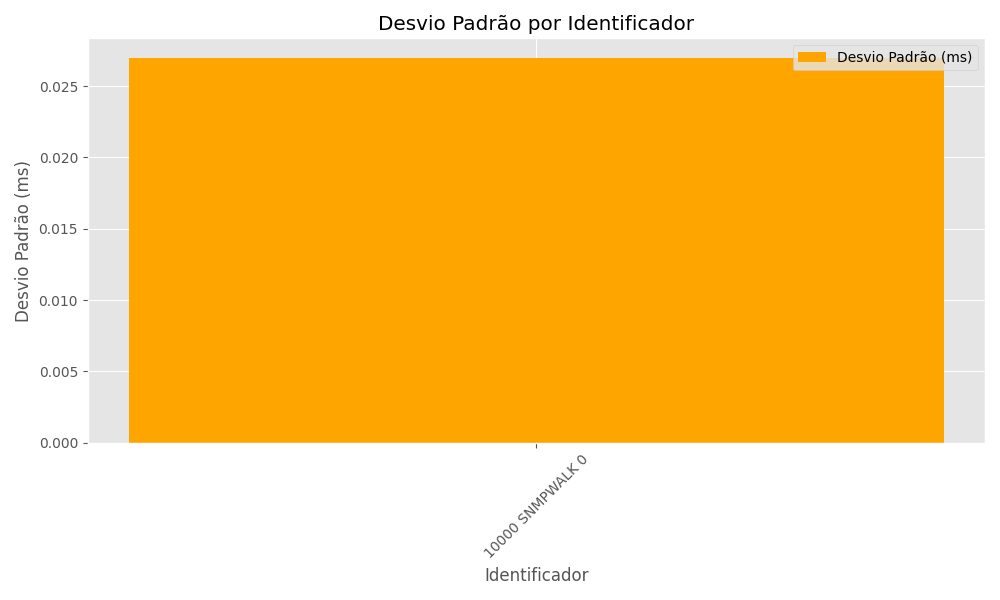
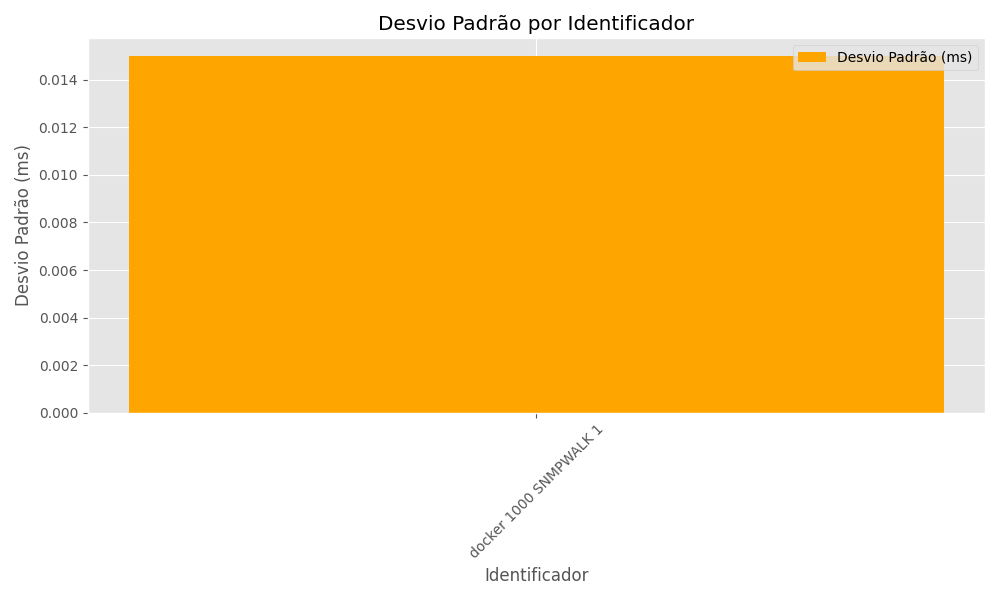
com e sem docker

diff --git a/main_script.py b/main_script.py
@@ -1,0 +1,171 @@
+import subprocess
+import json
+import os
+from parse_argument import get_argments
+from save_csv import save_csv
+from generate_graphics import genrate_praphics
+
+# * É necessario levantar o seridor docker antes de executar o script
+# *  docker compose -f compose-server.yml run tcp-server
+
+
+def execute_docker_compose(
+    compose_file,
+    service,
+    script,
+    host,
+    port,
+    requests,
+    command,
+    session,
+    log,
+    keep,
+    output_file,
+):
+    # Monta o comando dinamicamente
+    docker_command = [
+        "docker",
+        "compose",
+        "-f",
+        compose_file,
+        "run",
+        service,
+        "python",
+        script,
+        "--host",
+        host,
+        "--port",
+        str(port),
+        "--requests",
+        str(requests),
+        "--command",
+        command,
+        "--session" if session else "",
+        "--log",
+        log,
+        "--keep",
+        str(keep),
+        # "--remove-orphans",
+    ]
+
+    # Remove argumentos vazios (caso `--session` seja opcional)
+    docker_command = [arg for arg in docker_command if arg]
+
+    try:
+        # Executa o comando
+        resultado = subprocess.run(docker_command, text=True, capture_output=True)
+
+        # Estrutura os resultados em um dicionário
+        new_output = {
+            "indentifier": " ".join(["docker", str(requests), command, str(keep)]),
+            "stdout": resultado.stdout.strip(),
+            "stderr": resultado.stderr.strip(),
+            "returncode": resultado.returncode,
+        }
+
+        save_csv(output_file, new_output)
+
+    except Exception as e:
+        print(f"Erro ao execute o comando: {e}")
+
+    compose_down(args.compose_file)
+
+
+def execute_local(
+    script,
+    host,
+    port,
+    requests,
+    command,
+    session,
+    log,
+    keep,
+    output_file,
+):
+    """
+    Executa o script diretamente no ambiente local, sem Docker.
+    """
+    # Monta o comando dinamicamente
+    local_command = [
+        "python3",
+        script,
+        "--host",
+        host,
+        "--port",
+        str(port),
+        "--requests",
+        str(requests),
+        "--command",
+        command,
+        "--session" if session else "",
+        "--log",
+        log,
+        "--keep",
+        str(keep),
+    ]
+
+    # Remove argumentos vazios (caso `--session` seja opcional)
+    local_command = [arg for arg in local_command if arg]
+
+    try:
+        # Executa o comando localmente
+        resultado = subprocess.run(local_command, text=True, capture_output=True)
+
+        # Estrutura os resultados em um dicionário
+        new_output = {
+            "indentifier": " ".join(["local", str(requests), command, str(keep)]),
+            "stdout": resultado.stdout.strip(),
+            "stderr": resultado.stderr.strip(),
+            "returncode": resultado.returncode,
+        }
+
+        save_csv(output_file, new_output)
+
+    except Exception as e:
+        print(f"Erro ao executar o comando local: {e}")
+
+
+def compose_down(compose_file):
+    subprocess.run(
+        ["docker", "compose", "-f", compose_file, "down", "--remove-orphans"],
+        text=True,
+        capture_output=True,
+    )
+
+
+if __name__ == "__main__":
+
+    # Faz o parse dos argumentos
+    args = get_argments()
+
+    # Escolha entre execução com Docker ou local
+    if args.service:  # Se o serviço foi especificado, assume execução com Docker
+        execute_docker_compose(
+            compose_file=args.compose_file,
+            service=args.service,
+            script=args.script,
+            host=args.host,
+            port=args.port,
+            requests=args.requests,
+            command=args.command,
+            session=args.session,
+            log=args.log,
+            keep=args.keep,
+            output_file=args.output_file,
+        )
+        compose_down(args.compose_file)
+    else:  # Caso contrário, executa localmente
+        execute_local(
+            script=args.script,
+            host=args.host,
+            port=args.port,
+            requests=args.requests,
+            command=args.command,
+            session=args.session,
+            log=args.log,
+            keep=args.keep,
+            output_file=args.output_file,
+        )
+    #! FALTA O VERBOSE
+
+    genrate_praphics(args.output_file)  # TODO: Os graficos precisam ser melhorados

diff --git a/parse_argument.py b/parse_argument.py
@@ -13,14 +13,14 @@ def get_argments():
     parser.add_argument(
         "--compose_file",
         # required=True,
-        default="compose-tcp.yml",
+        # default="compose-tcp.yml",
         type=str,
         help="Arquivo Docker Compose (ex: compose-tcp.yml)",
     )
     parser.add_argument(
         "--service",
         # required=True,
-        default="tcp-client",
+        # default="tcp-client",
         type=str,
         help="Serviço no Docker Compose (ex: tcp-client)",
     )
